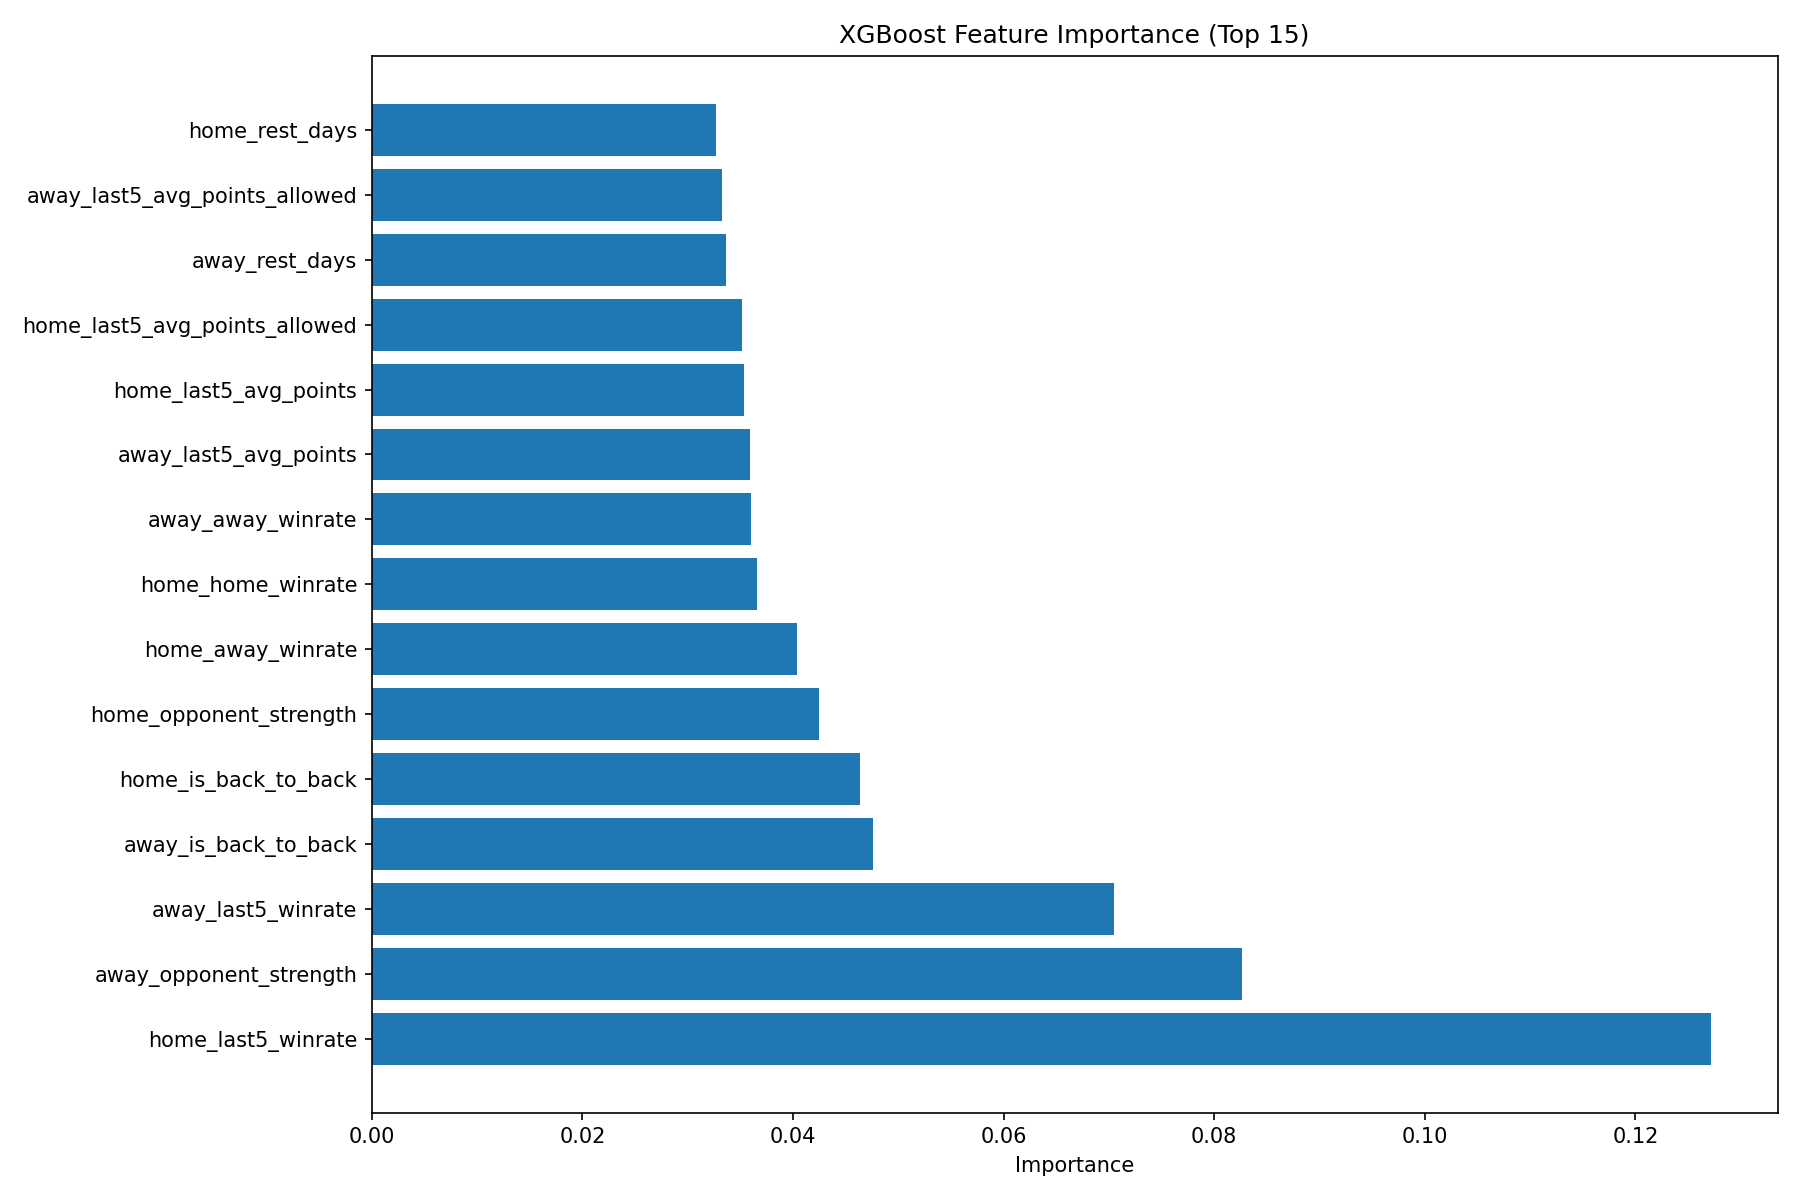
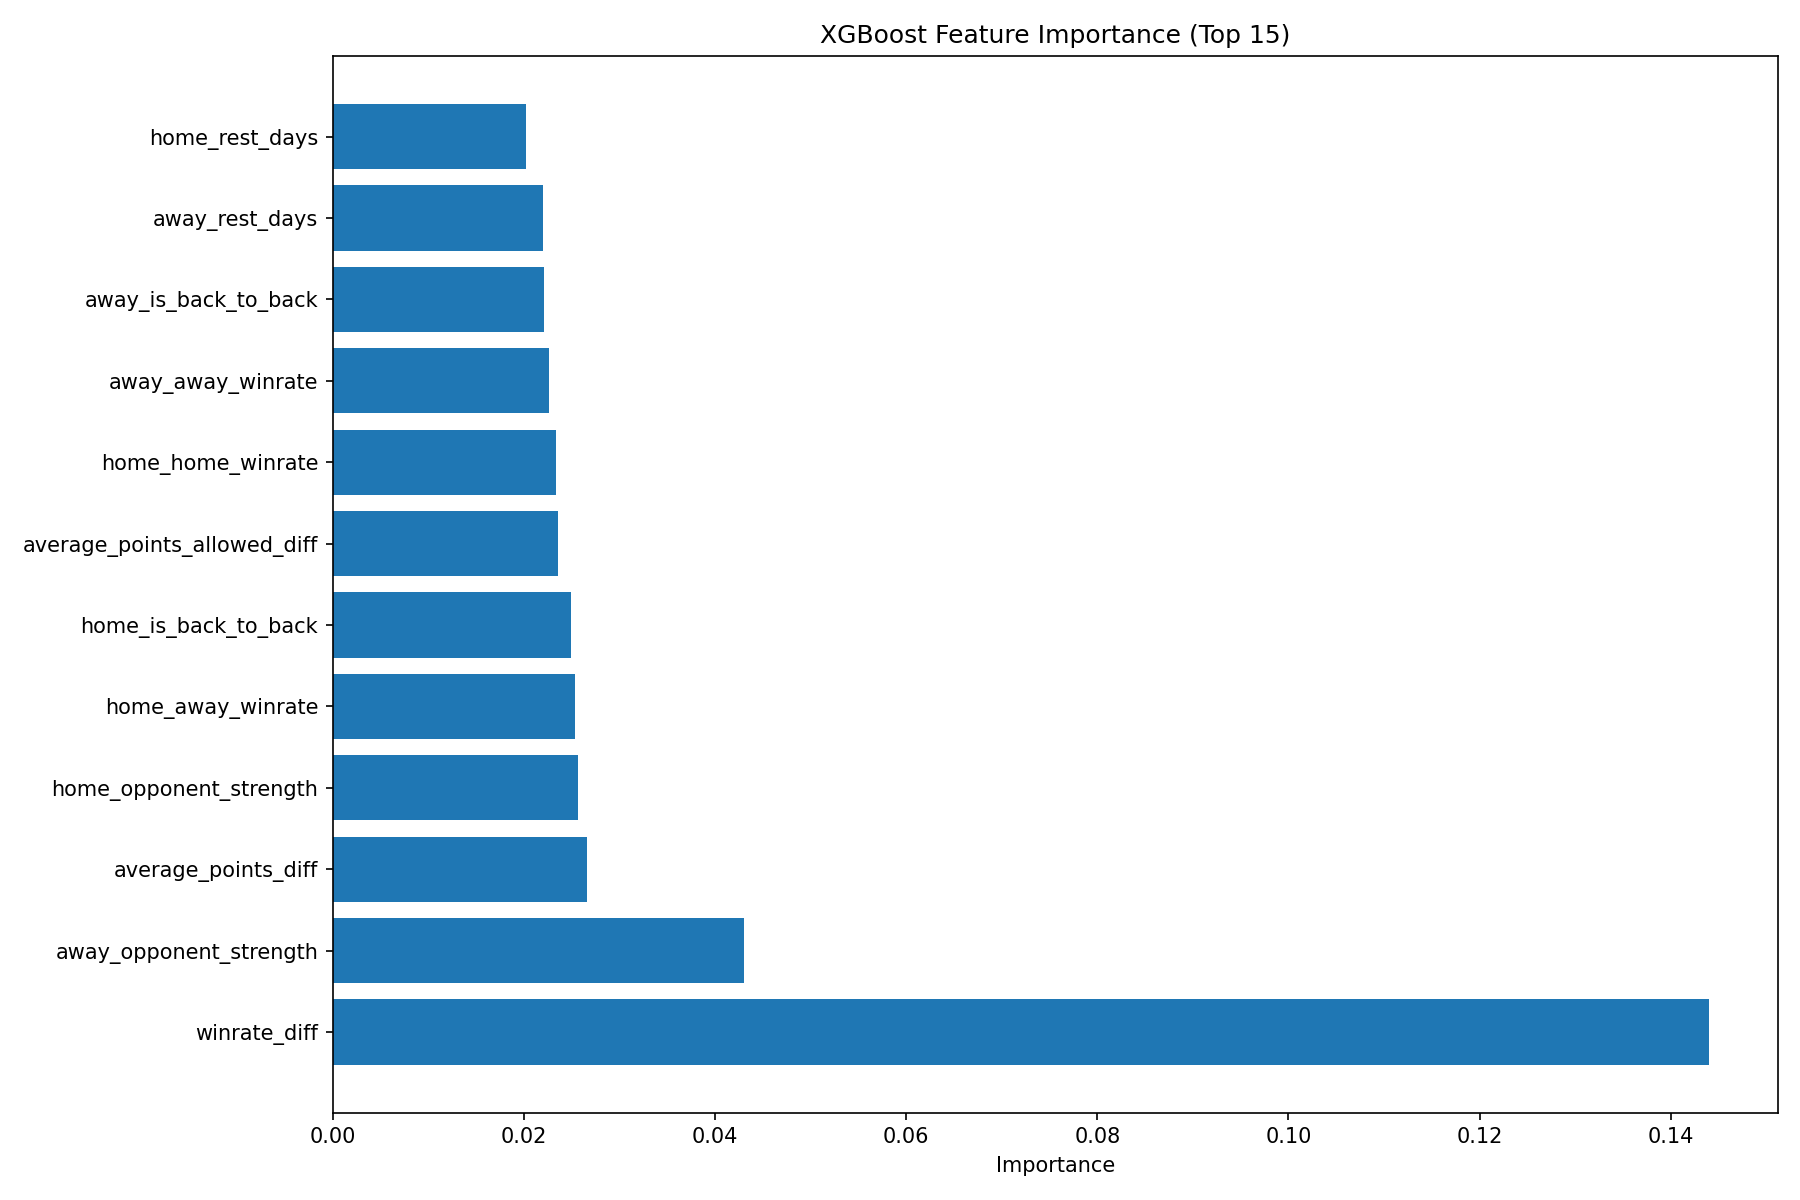
vorhersagen für gestern 100%

diff --git a/src/predict.py b/src/predict.py
@@ -7,7 +7,7 @@ from xgboost import XGBClassifier
 # 1. Historische Modelldaten laden und bereinigen
 # -----------------------------
 df = pd.read_csv("data/model_data.csv")
-
+'''
 df_model = df.dropna(subset=["home_last5_winrate",
                             "away_last5_winrate",
                             "home_last5_avg_points",
@@ -25,20 +25,13 @@ df_model = df.dropna(subset=["home_last5_winrate",
                             "home_away_winrate",
                             "away_away_winrate"
                             ]).copy()
-
-df_model["gameDateTimeEst"] = pd.to_datetime(df_model["gameDateTimeEst"])
+'''
+df["gameDateTimeEst"] = pd.to_datetime(df["gameDateTimeEst"])
 #df_model = df.dropna(subset=feature_cols).copy()
-df_model["winrate_diff"] = df_model["home_last5_winrate"] - df_model["away_last5_winrate"]
-df_model["average_points_diff"] = df_model["home_last5_avg_points"] - df_model["away_last5_avg_points"]
-df_model["average_points_allowed_diff"] = df_model["home_last5_avg_points_allowed"] - df_model["away_last5_avg_points_allowed"]
-df_model["rest_days_diff"] = df_model["home_rest_days"] - df_model["away_rest_days"]
-
-# Aktuelles Datum in US Eastern Time (zeitzonenfrei)
-eastern_now = pd.Timestamp.now(tz='US/Eastern')
-today_naive = eastern_now.tz_localize(None).normalize()
-yesterday_naive = (eastern_now - pd.Timedelta(days=1)).tz_localize(None).normalize()
-
-train = df_model[df_model["gameDateTimeEst"] < today_naive].copy()
+df["winrate_diff"] = df["home_last5_winrate"] - df["away_last5_winrate"]
+df["average_points_diff"] = df["home_last5_avg_points"] - df["away_last5_avg_points"]
+df["average_points_allowed_diff"] = df["home_last5_avg_points_allowed"] - df["away_last5_avg_points_allowed"]
+df["rest_days_diff"] = df["home_rest_days"] - df["away_rest_days"]
 
 feature_cols =["home_last5_winrate",
                  "away_last5_winrate",
@@ -59,12 +52,38 @@ feature_cols =["home_last5_winrate",
                 "home_home_winrate", 
                 "away_home_winrate",
                 "home_away_winrate", 
-                "away_away_winrate"
+                "away_away_winrate",
+                "winrate_diff",
+                "average_points_diff",
+                "average_points_allowed_diff",
+                "rest_days_diff",
+                "home_last5_pts",
+                "away_last5_pts",
+                "home_last5_reb",
+                "away_last5_reb",
+                "home_last5_ast",
+                "away_last5_ast",
+                "home_last5_min",
+                "away_last5_min",
+                "home_last5_player_count",
+                "away_last5_player_count",
+                "pts_diff_last5",
+                "reb_diff_last5",
+                "ast_diff_last5",
+                "min_diff_last5",
+                "player_count_diff_last5"
                  ]
 
+df_model = df.dropna(subset=feature_cols).copy()
 
-X_train = train[feature_cols]
-y_train = train["home_win"]
+# Aktuelles Datum in US Eastern Time (zeitzonenfrei)
+eastern_now = pd.Timestamp.now(tz='US/Eastern')
+today_naive = eastern_now.tz_localize(None).normalize()
+yesterday_naive = (eastern_now - pd.Timedelta(days=1)).tz_localize(None).normalize()
+
+train = df_model[df_model["gameDateTimeEst"] < today_naive].copy()
+X_train = train[feature_cols].values
+y_train = train["home_win"].values
 
 model = XGBClassifier(
     n_estimators=300,
@@ -144,10 +163,13 @@ future = future_nba
 # -----------------------------
 # 4. Letzte bekannte Team-Features aus Modelldaten extrahieren
 # -----------------------------
+home_cols = [col for col in feature_cols if col.startswith('home_')]
+away_cols = [col for col in feature_cols if col.startswith('away_')]
+
 # Letzte Werte für Heim-Teams
 home_latest = (
     df_model.sort_values("gameDateTimeEst")
-    .groupby("hometeamName")[['home_last5_winrate', 'home_last5_avg_points', 'home_last5_avg_points_allowed', 'home_rest_days', 'home_is_back_to_back', 'home_opponent_strength', 'home_home_winrate', 'home_away_winrate']]
+    .groupby("hometeamName")[home_cols]
     .last()
     .reset_index()
 )
@@ -155,11 +177,10 @@ home_latest = (
 # Letzte Werte für Auswärts-Teams
 away_latest = (
     df_model.sort_values("gameDateTimeEst")
-    .groupby("awayteamName")[['away_last5_winrate', 'away_last5_avg_points', 'away_last5_avg_points_allowed', 'away_rest_days', 'away_is_back_to_back', 'away_opponent_strength', 'away_home_winrate', 'away_away_winrate']]
+    .groupby("awayteamName")[away_cols]
     .last()
     .reset_index()
 )
-
 # -----------------------------
 # 5. Features mit den kommenden Spielen mergen
 # -----------------------------
@@ -170,6 +191,12 @@ future["winrate_diff"] = future["home_last5_winrate"] - future["away_last5_winra
 future["average_points_diff"] = future["home_last5_avg_points"] - future["away_last5_avg_points"]
 future["average_points_allowed_diff"] = future["home_last5_avg_points_allowed"] - future["away_last5_avg_points_allowed"]
 future["rest_days_diff"] = future["home_rest_days"] - future["away_rest_days"]
+
+future["pts_diff_last5"] = future["home_last5_pts"] - future["away_last5_pts"]
+future["reb_diff_last5"] = future["home_last5_reb"] - future["away_last5_reb"]
+future["ast_diff_last5"] = future["home_last5_ast"] - future["away_last5_ast"]
+future["min_diff_last5"] = future["home_last5_min"] - future["away_last5_min"]
+future["player_count_diff_last5"] = future["home_last5_player_count"] - future["away_last5_player_count"]
 
 # Prüfen, wie viele vollständige Datensätze wir haben
 complete_mask = future[feature_cols].notna().all(axis=1)
@@ -183,7 +210,7 @@ future_valid = future.loc[complete_mask].copy()
 if future_valid.empty:
     print("WARNUNG: Keine Spiele mit vollständigen Features – Vorhersage übersprungen.")
 else:
-    X_future = future_valid[feature_cols]
+    X_future = future_valid[feature_cols].values
     future_valid["prediction"] = model.predict(X_future)
     future_valid["probability_home_win"] = model.predict_proba(X_future)[:, 1]
     future_valid["predicted_winner"] = future_valid.apply(
@@ -227,7 +254,7 @@ yesterday_games = df_model[df_model["gameDateTimeEst"].dt.normalize() == yesterd
 
 output_yesterday = pd.DataFrame()
 if not yesterday_games.empty:
-    X_yesterday = yesterday_games[feature_cols]
+    X_yesterday = yesterday_games[feature_cols].values
     yesterday_games["prediction"] = model.predict(X_yesterday)
     yesterday_games["probability_home_win"] = model.predict_proba(X_yesterday)[:, 1]
     yesterday_games["predicted_winner"] = yesterday_games.apply(
@@ -259,6 +286,11 @@ if not yesterday_games.empty:
     print(f"Gefundene Spiele für gestern: {len(output_yesterday)}")
 else:
     print("Keine Spiele von gestern (US Eastern) gefunden.")
+
+print("Vorhersagen für heute:")
+print(output_today.to_string(index=False))
+print("\nVorhersagen für gestern:")
+print(output_yesterday.to_string(index=False))
     
 
 

diff --git a/models/xgb_analysis.py b/models/xgb_analysis.py
@@ -1,26 +1,66 @@
 import pandas as pd
-import numpy as np
+import os
 import matplotlib.pyplot as plt
 from sklearn.model_selection import GridSearchCV
 import joblib  # zum Speichern des besten Modells
+from xgboost import XGBClassifier
 
 # ------------------------------------------------------------
 # 1. DATEN LADEN (gleicher Code wie in train.py)
 # ------------------------------------------------------------
-df = pd.read_csv('data/model_data.csv')
+base_dir = os.path.dirname(os.path.dirname(__file__))  # geht zwei Ebenen hoch ins Hauptverzeichnis
+output_dir = os.path.join(base_dir, 'output')
+data_path = os.path.join(base_dir, 'data', 'model_data.csv')
+df = pd.read_csv(data_path)
 
-feature_cols = [
-    "home_last5_winrate", "away_last5_winrate",
-    "home_last5_avg_points", "away_last5_avg_points",
-    "home_rest_days", "away_rest_days",
-    "home_last5_avg_points_allowed", "away_last5_avg_points_allowed",
-    "home_is_back_to_back", "away_is_back_to_back",
-    "home_opponent_strength", "away_opponent_strength",
-    "home_home_winrate", "away_home_winrate",
-    "home_away_winrate", "away_away_winrate",
-    "same_division",
-    "home_last_game_overtime", "away_last_game_overtime"
-]
+# Datum wieder als echtes Datum
+df["gameDateTimeEst"] = pd.to_datetime(df["gameDateTimeEst"])
+# Differenz der Winraten
+df["winrate_diff"] = df["home_last5_winrate"] - df["away_last5_winrate"]
+df["average_points_diff"] = df["home_last5_avg_points"] - df["away_last5_avg_points"]
+df["average_points_allowed_diff"] = df["home_last5_avg_points_allowed"] - df["away_last5_avg_points_allowed"]
+df["rest_days_diff"] = df["home_rest_days"] - df["away_rest_days"]
+
+feature_cols =["home_last5_winrate",
+                 "away_last5_winrate",
+                 "winrate_diff",
+                 "home_last5_avg_points",
+                 "away_last5_avg_points",
+                 "home_rest_days",
+                 "away_rest_days",
+                "home_last5_avg_points_allowed",
+                "away_last5_avg_points_allowed",
+                "average_points_diff",
+                "average_points_allowed_diff",
+                "rest_days_diff",
+                "home_is_back_to_back",
+                "away_is_back_to_back",
+                "home_opponent_strength",
+                "away_opponent_strength",
+                "home_home_winrate", 
+                "away_home_winrate",
+                "home_away_winrate", 
+                "away_away_winrate",
+                "winrate_diff",
+                "average_points_diff",
+                "average_points_allowed_diff",
+                "rest_days_diff",
+                "home_last5_pts",
+                "away_last5_pts",
+                "home_last5_reb",
+                "away_last5_reb",
+                "home_last5_ast",
+                "away_last5_ast",
+                "home_last5_min",
+                "away_last5_min",
+                "home_last5_player_count",
+                "away_last5_player_count",
+                "pts_diff_last5",
+                "reb_diff_last5",
+                "ast_diff_last5",
+                "min_diff_last5",
+                "player_count_diff_last5"
+                 ]
 
 # Phase-Spalten hinzufügen falls vorhanden
 phase_cols = [col for col in df.columns if col.startswith("phase_")]
@@ -28,7 +68,7 @@ feature_cols.extend(phase_cols)
 
 # Daten vorbereiten
 df_model = df.dropna(subset=feature_cols).copy()
-df_model["gameDateTimeEst"] = pd.to_datetime(df_model["gameDateTimeEst"])
+
 
 # Train/Test Split
 eastern_now = pd.Timestamp.now(tz='US/Eastern')
@@ -41,10 +81,10 @@ test = df_model[
     (df_model["gameDateTimeEst"] < today_naive)
 ].copy()
 
-X_train = train[feature_cols]
-y_train = train["home_win"]
-X_test = test[feature_cols]
-y_test = test["home_win"]
+X_train = train[feature_cols].values
+y_train = train["home_win"].values
+X_test = test[feature_cols].values
+y_test = test["home_win"].values
 
 print(f"\n📊 Trainingsdaten: {len(train)} Spiele")
 print(f"📊 Testdaten: {len(test)} Spiele")
@@ -54,7 +94,6 @@ print("="*60)
 # ------------------------------------------------------------
 # 2. BESTEHENDES MODELL LADEN ODER TRAINIEREN
 # ------------------------------------------------------------
-from xgboost import XGBClassifier
 
 # Dein aktuelles Modell (mit deinen Parametern)
 xgb_current = XGBClassifier(
@@ -98,8 +137,8 @@ plt.barh(feat_importance.head(15)['feature'], feat_importance.head(15)['importan
 plt.xlabel('Importance')
 plt.title('XGBoost Feature Importance (Top 15)')
 plt.tight_layout()
-plt.savefig('output/feature_importance.png', dpi=150)
-print("\n📸 Plot gespeichert: output/feature_importance.png")
+plt.savefig(os.path.join(output_dir, 'feature_importance.png'), dpi=150)
+print(f"Plot gespeichert: {os.path.join(output_dir, 'feature_importance.png')}")
 
 # ------------------------------------------------------------
 # 4. SCHRITT 2: HYPERPARAMETER-TUNING

diff --git a/run_all.py b/run_all.py
@@ -20,6 +20,7 @@ if __name__ == "__main__":
     # Reihenfolge der Skripte (angepasst an deine tatsächlichen Dateinamen)
     scripts = [
         "src/nba_api_test.py",   # Ergebnisse von der API holen
+        #"src/fetch_player_stats.py",  # Spielerstatistiken holen
         "src/tabelle.py",        # Tabelle bereinigen
         "src/features.py",       # Features hinzufügen
         "src/predict.py",        # Vorhersage für heute
